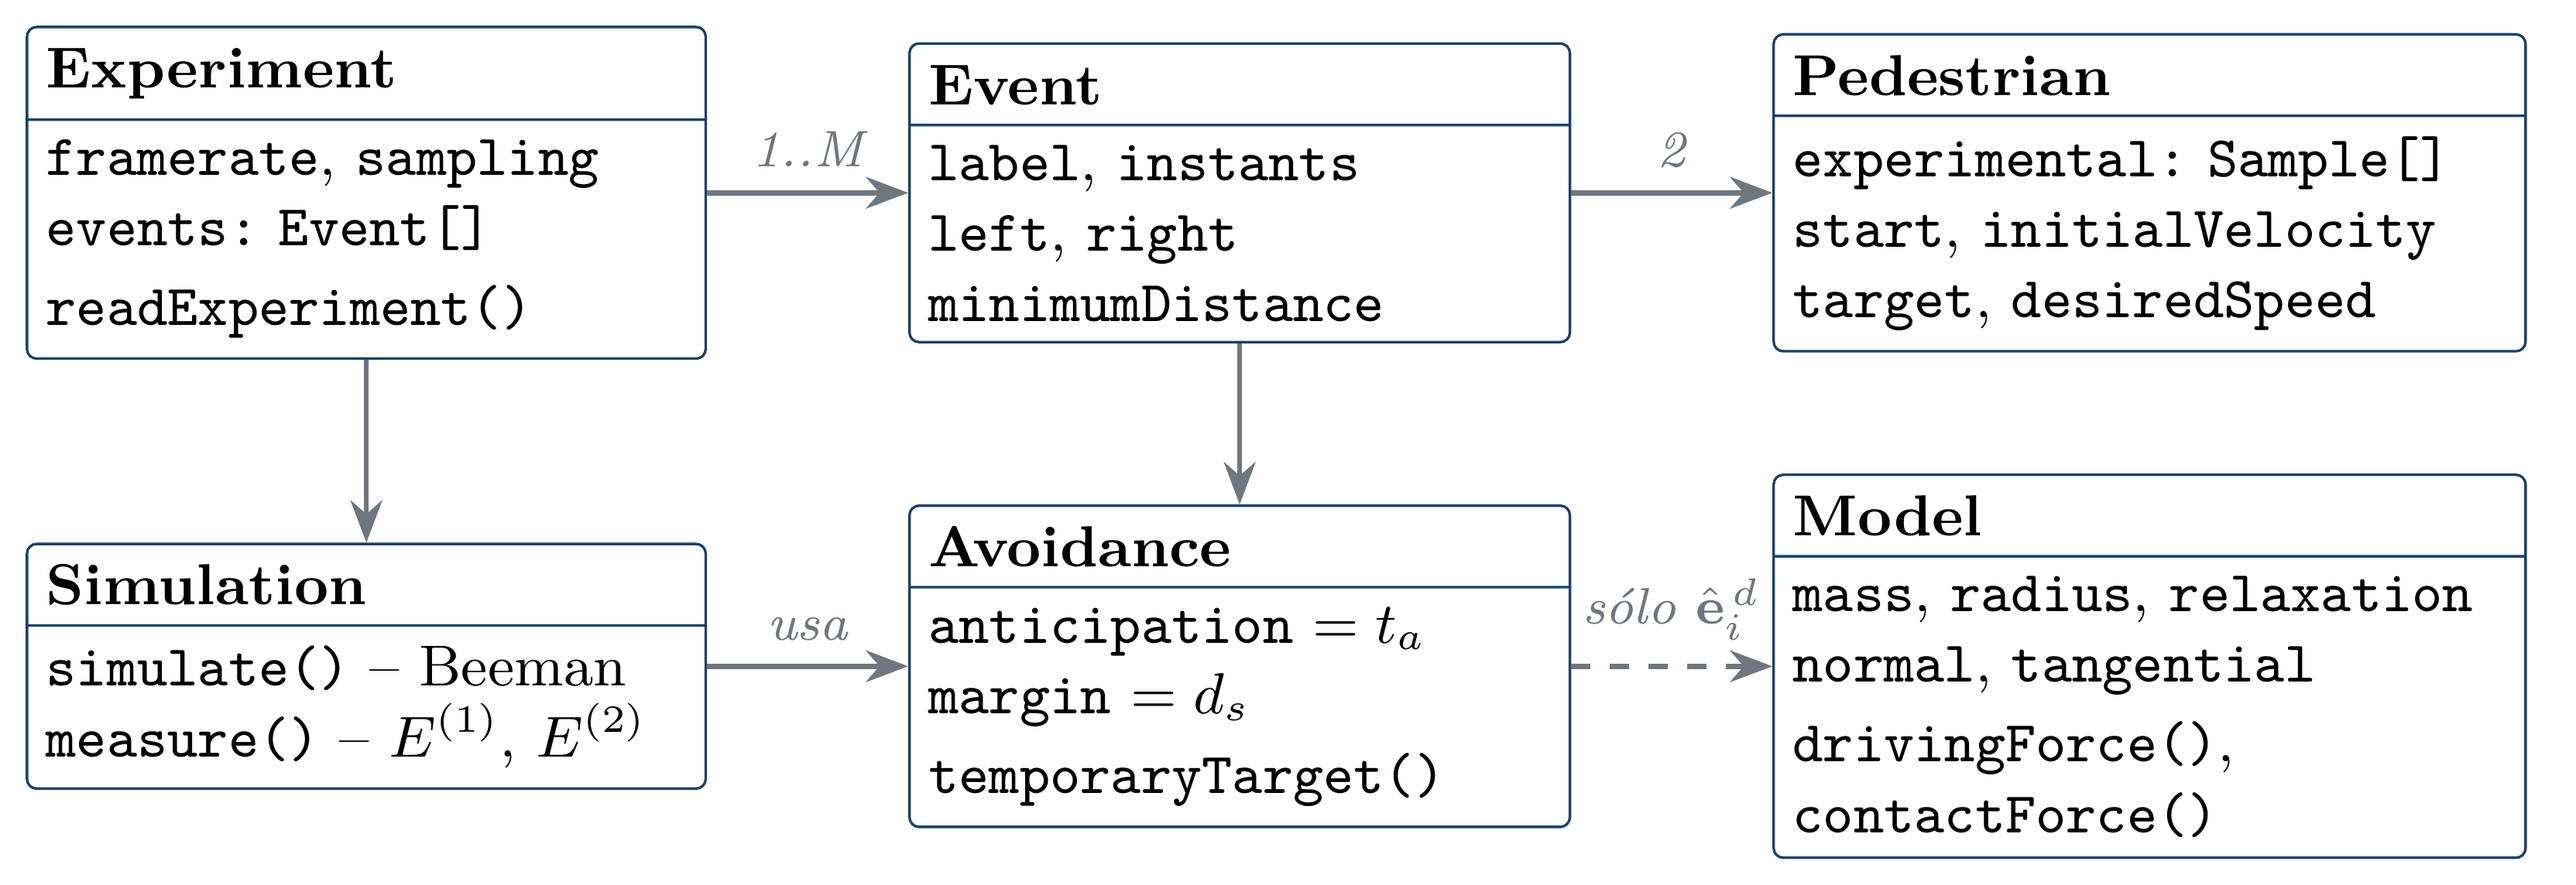
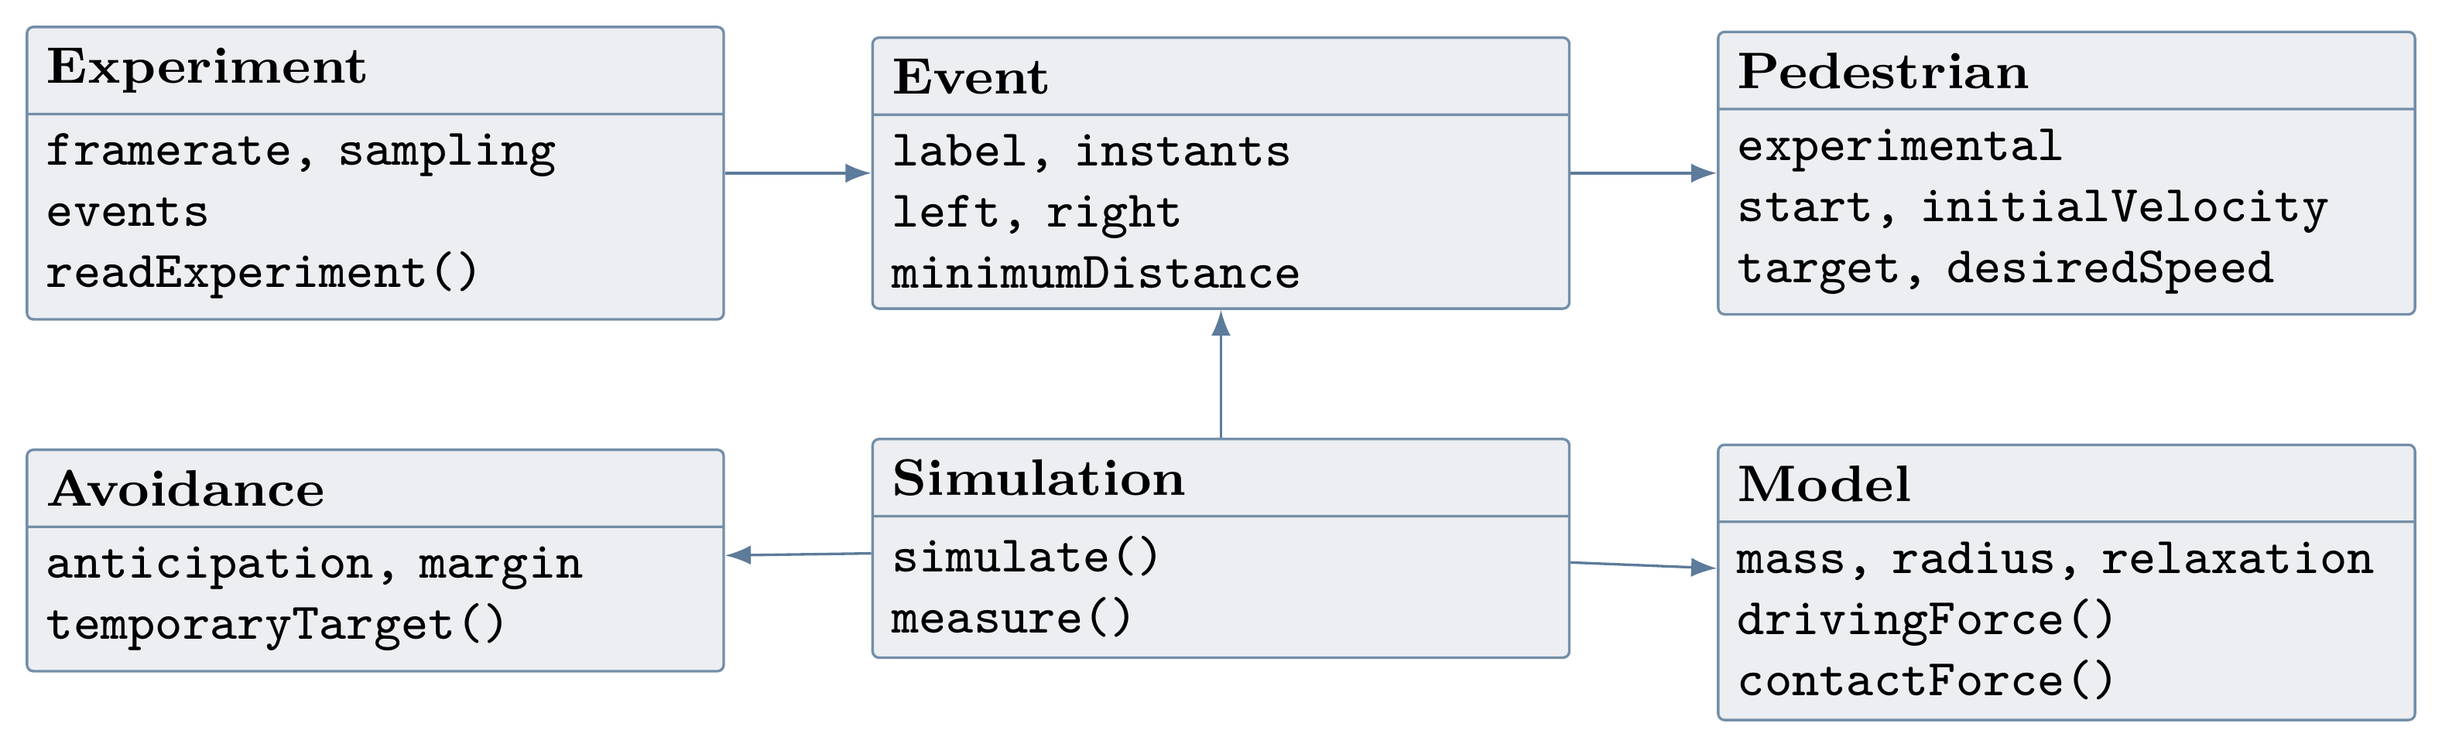
Implementación con el dibujo de los TP anteriores: UML sin rótulos en las flechas y bucle vertical numerado

diff --git a/report/presentacion.tex b/report/presentacion.tex
@@ -421,7 +421,7 @@
 \begin{frame}{Motor de simulación}
     \centering
     \vspace{-0.2em}
-    \resizebox{0.96\textwidth}{!}{\input{figuras/motor-uml.tikz}}\\[0.6em]
+    \resizebox{0.90\textwidth}{!}{\input{figuras/motor-uml.tikz}}\\[0.8em]
     \begin{minipage}{0.94\textwidth}
         \footnotesize\sloppy
         \begin{itemize}\setlength{\itemsep}{0.35em}
@@ -436,12 +436,12 @@
     \end{minipage}
 \end{frame}
 
-\begin{frame}{El algoritmo: el bucle y la grilla experimental}
-    \vspace{0.2em}
+\begin{frame}{El algoritmo: el bucle del paso temporal}
+    \vspace{-0.4em}
     \begin{center}
-        \resizebox{0.98\textwidth}{!}{\input{figuras/bucle.tikz}}
+        \resizebox{0.72\textwidth}{!}{\input{figuras/bucle.tikz}}
     \end{center}
-    \vspace{-0.2em}
+    \vspace{-0.6em}
     \centering
     {\small La fuerza depende de \vv{} (conducción y fricción tangencial): se integra con
     \textbf{Beeman predictor-corrector}. \alert{$\dt = \dtexp/n$ con $n$ entero}:
